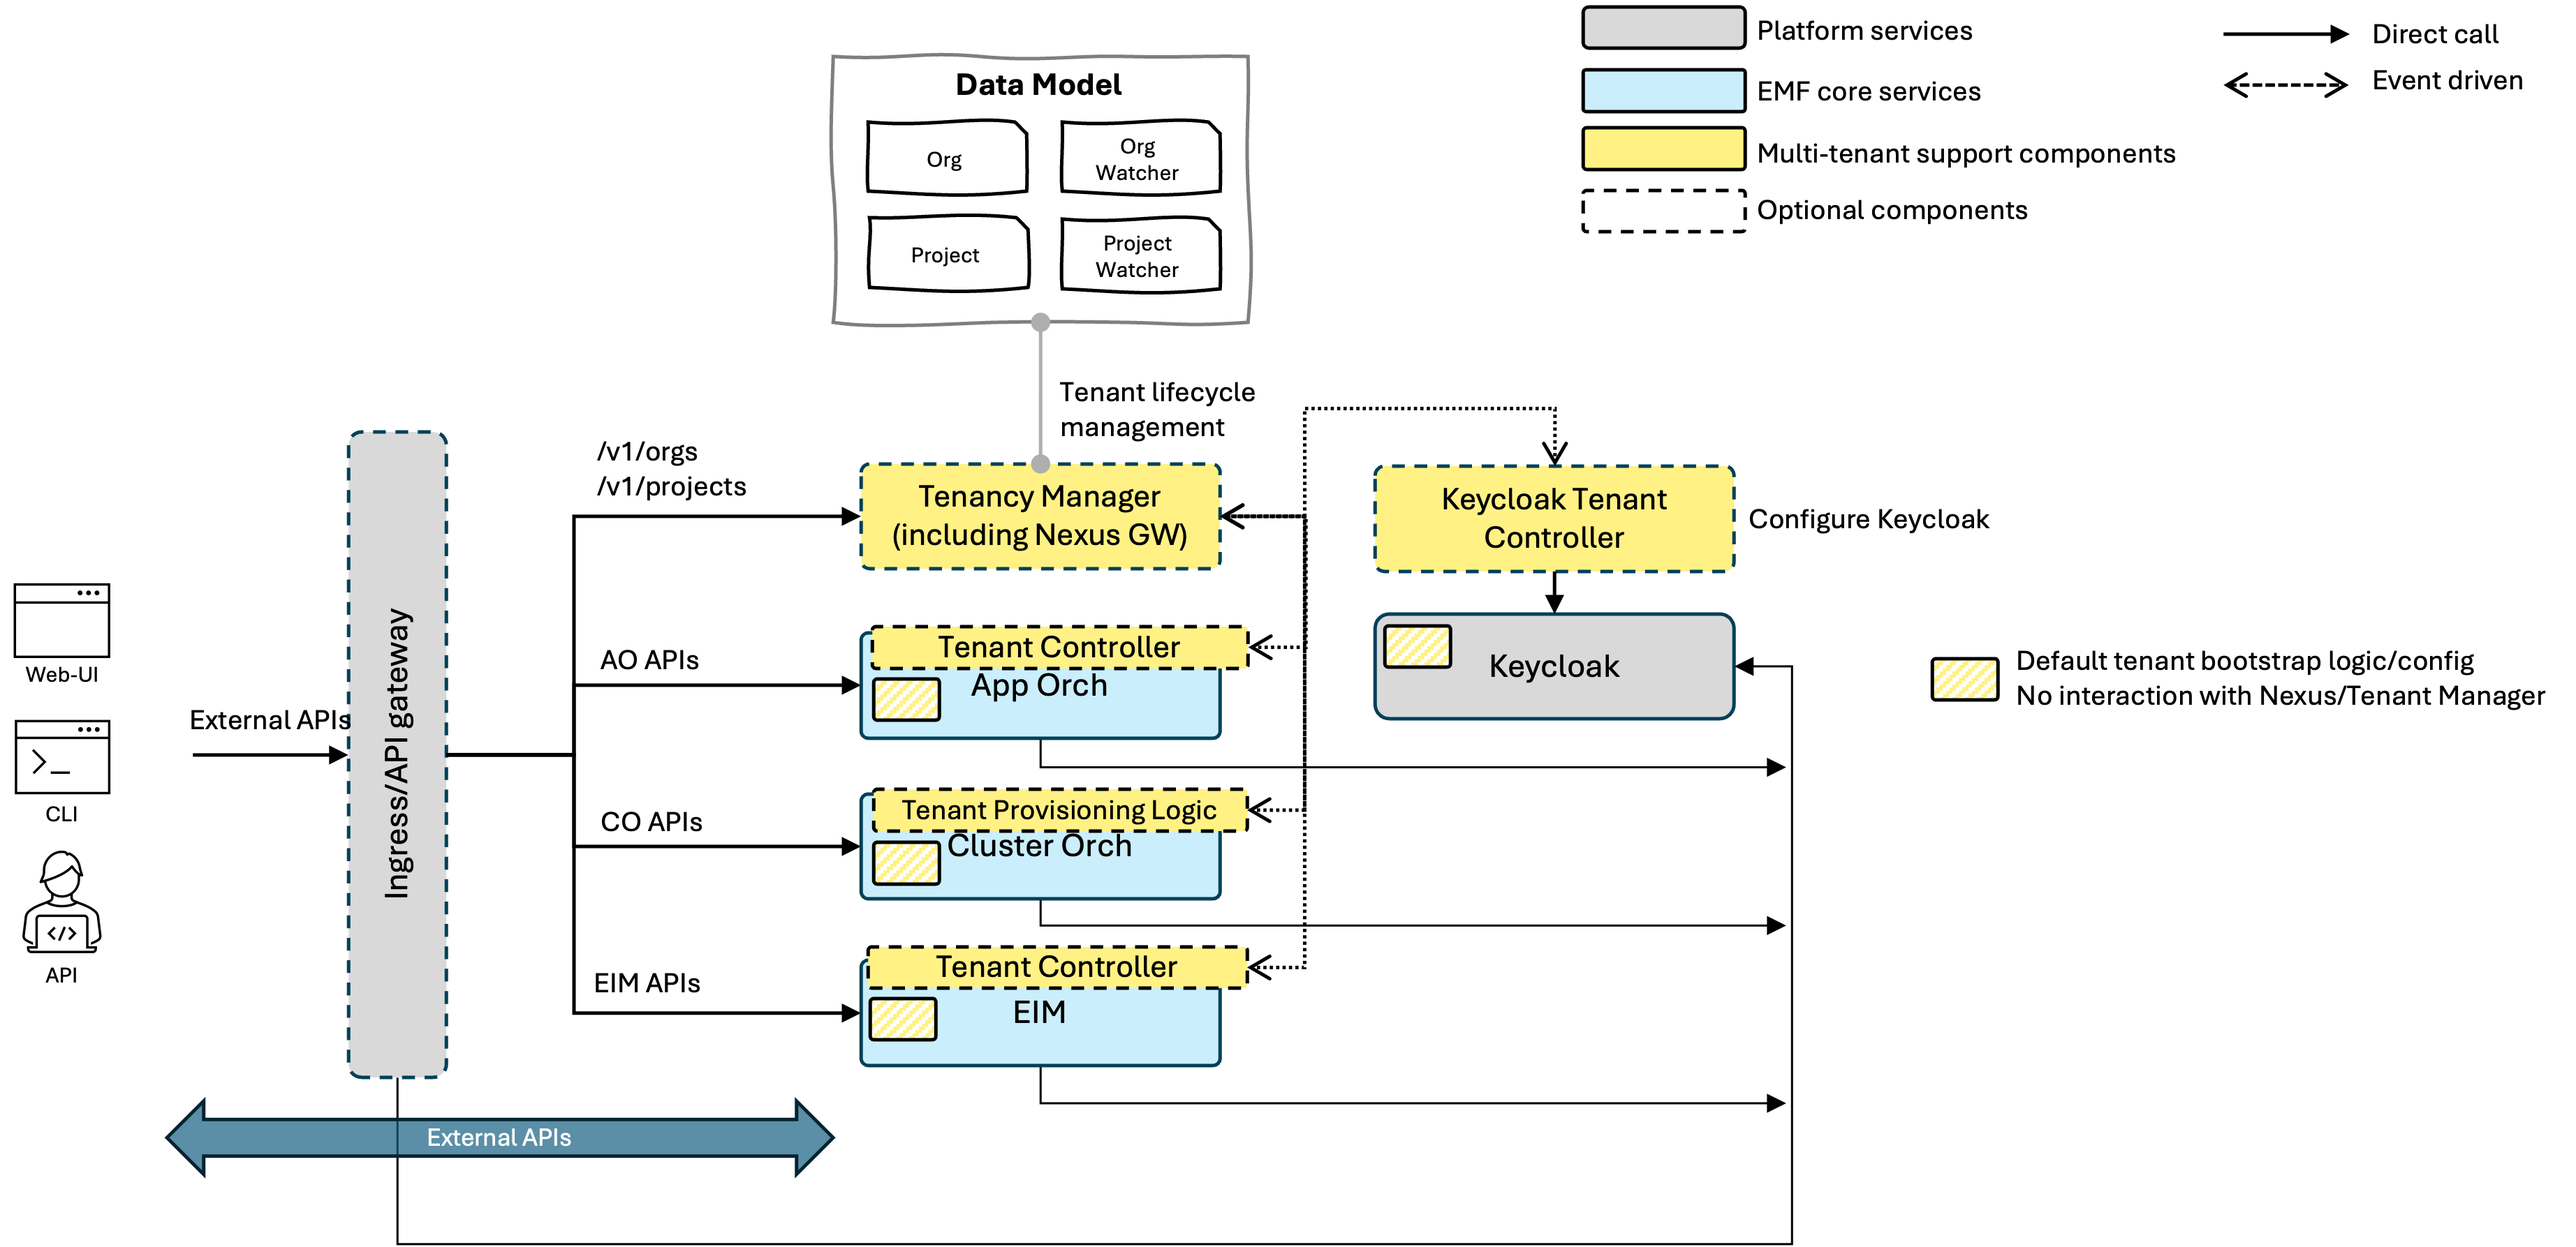
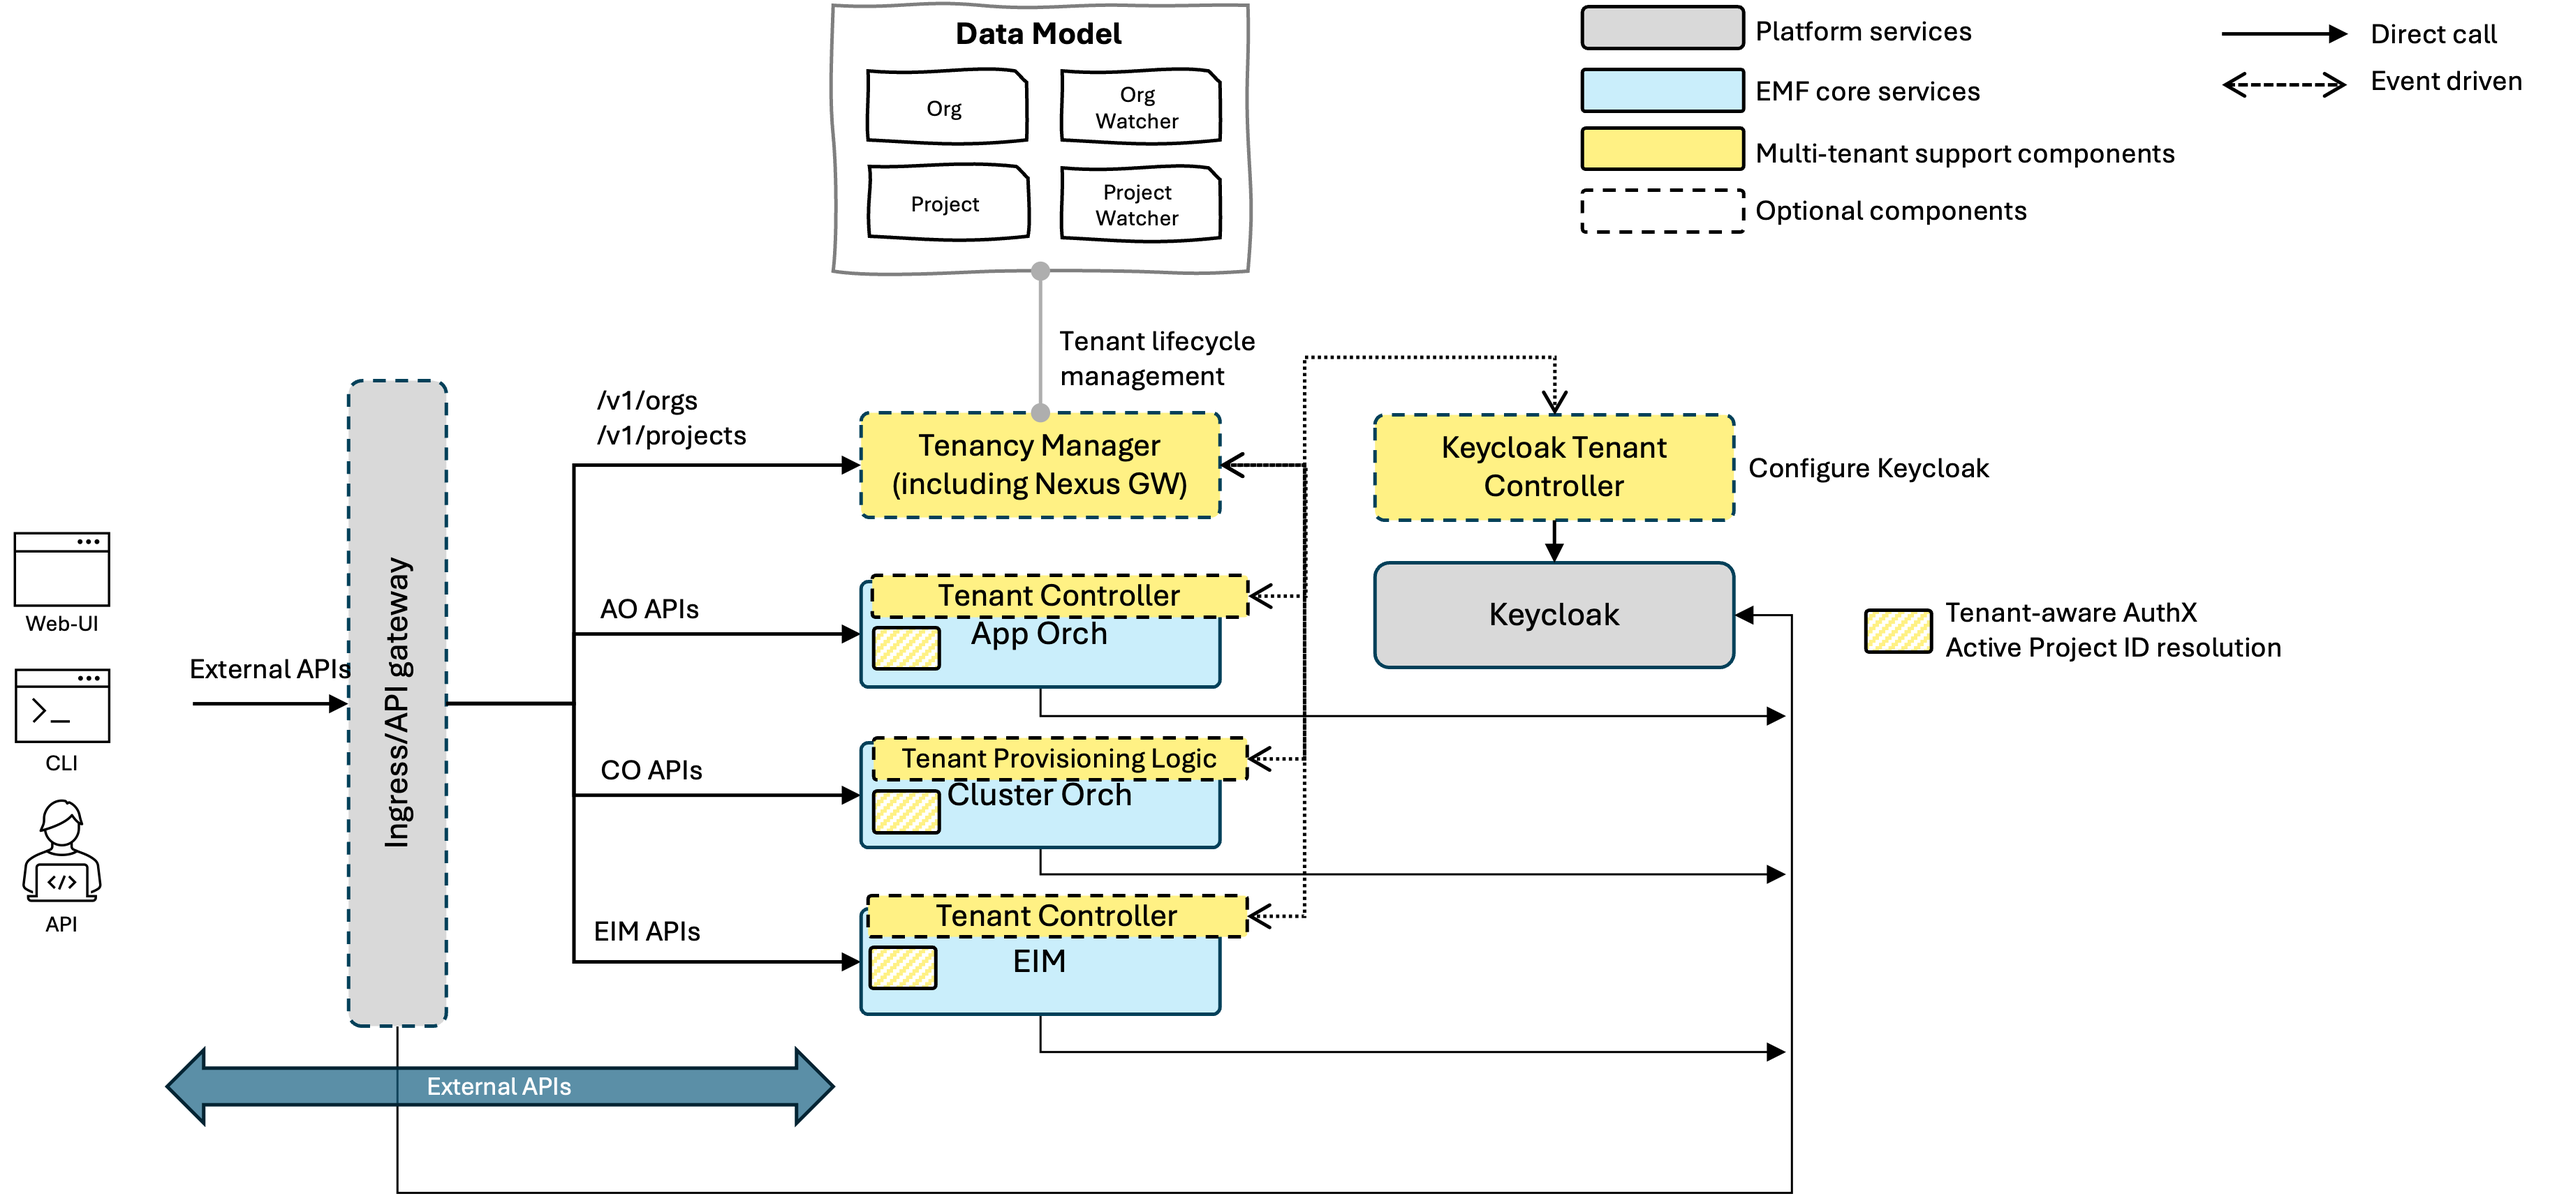
Update

diff --git a/design-proposals/platform-multi-tenancy-simplification.md b/design-proposals/platform-multi-tenancy-simplification.md
@@ -41,9 +41,9 @@ upgrades, so that my workflows continue without disruption.
 
 This proposal introduces a phased migration from the current monolithic multi-tenant architecture to a modular system
 that supports both single-tenant and multi-tenant deployment modes. By decoupling multi-tenancy components and making
-them optional, the architecture enables flexible service deployment and direct API exposure while reducing operational complexity. The approach preserves all
-existing multi-tenancy features and maintains backward compatibility where required, while allowing lightweight, simplified deployments when multi-tenancy is
-not needed.
+them optional, the architecture enables flexible service deployment and direct API exposure while reducing operational
+complexity. The approach preserves all existing multi-tenancy features and maintains backward compatibility where
+required, while allowing lightweight, simplified deployments when multi-tenancy is not needed.
 
 ### Current Architecture Problems
 
@@ -58,68 +58,114 @@ The current EMF architecture exhibits several key issues:
 - **Lack of Flexibility:** The architecture does not support selective component deployment or straightforward
   integration with external services, restricting adaptability to diverse environments.
 
-### Proposed Solution (WIP)
+### Proposed Solution
 
 ![new architecture](images/multi-tenancy-new-architecture.png)
 
-The target architecture achieves a fully modular system with the following characteristics:
+The proposed architecture delivers a modular, flexible system with these key features:
 
-- The complex Multi-tenant API Gateway is repurposed as HTTP router for tenant-manager, serving only `/v1/projects` and `/v1/orgs` endpoints.
-- All multi-tenancy components are optional (indicated by dashed borders).
-- Services (AO, CO, EIM) expose external APIs directly, eliminating central coordination.
-- External integrations are streamlined via direct service access.
+- The Multi-tenant API Gateway is simplified to an HTTP router for the Tenant Manager, exposing only `/v1/projects` and
+  `/v1/orgs` endpoints.
+- Core services (AO, CO, EIM) expose their (external) APIs directly, eliminating API remapping and project ID
+  resolution.
+- A shared middleware library (`orch-lib`) standardizes API handling, authentication, and project ID resolution across
+  all services.
+- Multi-tenancy is configurable; Tenant Manager and related controllers are optional and can be enabled or disabled per
+  deployment.
+- When multi-tenancy is disabled, services initialize a default tenant and restrict API requests to the default project,
+  maintaining consistent service logic.
+- Backward compatibility is preserved, allowing seamless upgrades for existing multi-tenant deployments.
 
-Below are examples of external service integration scenarios enabled by the new architecture:
+This modular approach enables organizations to deploy EMF in single-tenant or multi-tenant modes, reducing complexity
+and adapting to varied infrastructure needs.
+
+Below are examples of how the new modular architecture enables flexible integration of external services in both
+multi-tenant and single-tenant environments.
+
+#### Multi-Tenant Integration
 
 ![external service integration](images/multi-tenancy-external-service-integration.png)
+
+External services with multi-tenant capabilities can interact with EMF components as follows:
+
+- **Tenant Provisioning:** External services create or delete tenants via the Tenant Manager’s `/v1/orgs` and
+  `/v1/projects` endpoints.
+- **Authentication:** External OIDC providers issue JWT tokens for secure API access, serving as alternatives to EMF’s
+  Keycloak.
+- **API Access:** External services use EIM APIs (e.g., `/v1/project/{project}/hosts`) for infrastructure management
+  within tenant contexts.
+- **Core Components:** The Tenant Manager oversees organization and project structures, handling tenant provisioning for
+  services. EIM delivers infrastructure management APIs that are aware of tenant context, ensuring operations are scoped
+  to the appropriate organization or project.
+
+This scenario enables multiple organizations and projects to be managed by external services. Tenant operations—such as
+creation, deletion, and updates—are propagated to EIM through integration with the Tenant Manager. Core EMF services
+process requests according to the active project context, ensuring data isolation and secure access for each tenant.
+
+#### Single-Tenant Integration
+
 ![external service integration single tenant](images/multi-tenancy-external-service-integration-st.png)
 
-### Core Architecture Changes
+External services can also integrate with EMF in a simplified single-tenant mode:
 
-1. **Distributed API Handling**
-    - Enable direct external API exposure, removing the need for complex central routing and API remapping.
-    - Each service (AO, CO, EIM) manages Multi-tenant API Gateway responsibilities including:
-      - Resolve active project ID
-      - Tenant-aware AuthX
-      - Provide `/openapi` and `/swagger` endpoints
-    - Consolidate common functionality into a shared `orch-lib` middleware library to minimize duplicate work and ensure consistent API behaviors across services.
+- **Default Tenant Logic:** EIM provisions a default tenant and project automatically.
+- **Direct API Access:** External services connect directly to EIM APIs using pre-defined default project name, with no
+  tenant management required.
+- **Authentication:** JWTs are issued by external OIDC providers, without tenant-specific claims.
 
-2. **Optional Multi-tenancy Components**
-    - Make the Tenancy Manager optional, allowing it to be disabled in single-tenant deployments.
-    - Service-specific Tenant Controllers and Keycloak Tenant Controller are also optional.
-    - Provide default tenant bootstrap for single-tenant scenarios to simplify setup.
+In this scenario, only the EIM service is required. All API requests operate within a default tenant/project context,
+eliminating the need for complex tenant handling. This approach is ideal for environments where multi-tenancy is
+unnecessary, offering a lightweight and efficient integration path.
 
-### Migration Strategy
+### Core Changes
 
-#### Phase 0: Foundation
+#### Track 1: Remove Nexus-API-Gateway
 
-- Develop a shared middleware library (`orch-lib`) to centralize common multi-tenancy logic.
-- Create Helm configuration templates to support both single-tenant and multi-tenant deployment modes.
-- Implement standardized service initialization patterns using `orch-lib` shared functions for consistent startup across services, such as apiv2, CO, and AO.
-- Build a comprehensive testing framework to validate modularity and backward compatibility.
+##### Step 1: Foundation
 
-#### Phase 1: EIM Modernization
+Develop a shared middleware library (`orch-lib`) to centralize multi-tenancy logic and standardize API handling. Key
+features:
 
-![intermediate architecture](images/multi-tenancy-intermediate.png)
+- Extract the project name from the request URI and resolve it to the corresponding ActiveProjectID by querying the Tenant Manager.
+- Perform tenant-aware authentication by verifying that the resolved project ID exists in the JWT claims.
+- Inject ActiveProjectID into the request context for downstream service logic.
 
-- Decouple EIM from the legacy API gateway, enabling direct external API exposure.
-- Remove EIM-specific API mapping from `nexus-api-gateway` configuration.
-- Update CO to interact with EIM via its external APIs for inventory operations.
-- Pilot the modular architecture with EIM to validate design and integration patterns.
-- Support external service integrations with EIM in both single-tenant and multi-tenant modes.
+##### Step 2: EIM Modernization
 
-**Benefits:**
-- Minimizes migration risk by introducing changes incrementally.
-- Provides early access to EIM integration for external services.
-- Confirms the effectiveness of the modular approach before expanding to other components.
-- Ensures AO and CO remain stable throughout the transition.
+- Incrementally introduce changes to support EIM decomposition and minimize migration risk.
+- Enable direct external API access to EIM by decoupling it from the legacy API gateway ([PoC completed](https://github.com/open-edge-platform/infra-core/tree/poc-api-gateway)). Actions
+  include:
+  - Update [services.proto](https://github.com/open-edge-platform/infra-core/blob/main/apiv2/api/proto/services/v1/services.proto) to expose the external API path.
+  - Regenerate gRPC stubs and OpenAPI specs with the new path.
+  - Change [base URL config](https://github.com/open-edge-platform/infra-core/blob/main/apiv2/internal/common/config.go#L100) from `/edge-infra.orchestrator.apis/v2` to `/v1/projects`.
+  - Update [proxy/server.go](https://github.com/open-edge-platform/infra-core/blob/main/apiv2/internal/proxy/server.go#L110) to use `orch-lib` middlewares.
+  - Create Traefik IngressRoute to route “PathRegexp(`^/projects/[^/]+/compute`)” to the EIM API.
+- Remove EIM-specific API mapping from the `nexus-api-gateway` configuration.
+- Update CO to use EIM’s external APIs for inventory operations.
+- Validate backward compatibility using existing test suites.
 
-#### Phase 2: CO and AO Modernization
+##### Step 3: CO and AO Modernization
 
-- Transform App Orchestration and Cluster Orchestration to the modular architecture.
-- Achieve the full target architecture with all services decoupled.
+- Refactor App Orchestration (AO) and Cluster Orchestration (CO) to adopt the modular architecture, following the EIM
+  approach.
+- Complete the transition to the target architecture with all services decoupled from the legacy gateway.
 
-#### Phase 3: Cleanup
+##### Step 4: Cleanup
 
 - Remove legacy code paths and deprecated components.
-- Finalize documentation for deployment and migration processes.
+- Finalize documentation for deployment and migration.
+
+#### Track 2: Make Multi-Tenancy Configurable
+
+- Refactor tenant provisioning logic in each service into a reusable function, callable by both the service main process
+  and the tenant controller.
+- When multi-tenancy is enabled, the tenant controller triggers provisioning upon new project creation events from the
+  Tenant Manager.
+- When multi-tenancy is disabled, the service main process initializes the default project during startup.
+- Add single-tenant API handling logic to `orch-lib` to ensure consistent request processing when multi-tenancy is
+  inactive.
+- Provide Helm chart configuration options to select either single-tenant or multi-tenant deployment modes during
+  installation.
+- Add a global multi-tenant mode configuraion in the EMF installer, which propagates the selected mode to all enabled
+  services for consistent configuration.
+
